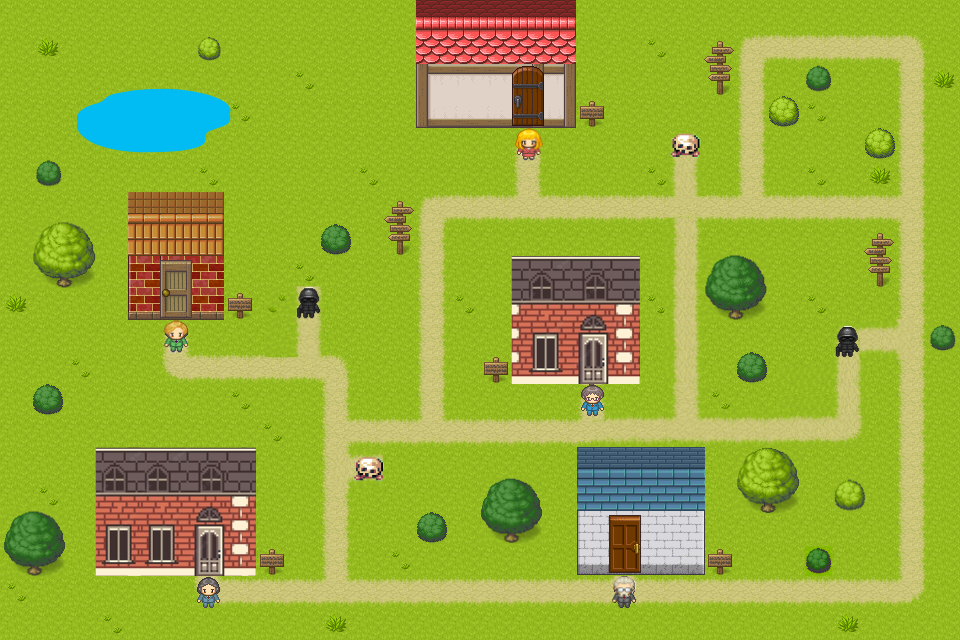
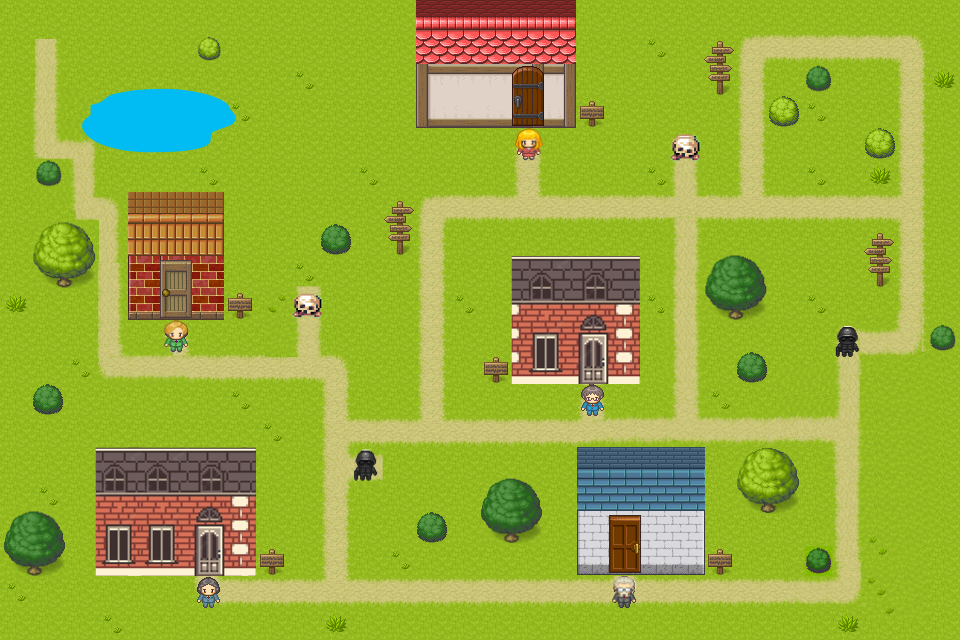
update mecanism-game-Map

diff --git a/codeplay.client/src/resources/GameMap/Map/index.js b/codeplay.client/src/resources/GameMap/Map/index.js
@@ -1,24 +1,24 @@
 import {PRO, CLN} from '../../../config/gameConstants';
 
 export const tiles = [
-    [PRO,PRO,PRO,PRO,PRO,PRO,PRO,PRO,PRO,PRO,PRO,PRO,PRO,CLN,CLN,CLN,CLN,CLN,PRO,PRO,PRO,PRO,PRO,PRO,PRO,PRO,PRO,PRO,PRO,PRO],
-    [PRO,PRO,PRO,PRO,PRO,PRO,CLN,PRO,PRO,PRO,PRO,PRO,PRO,CLN,CLN,CLN,CLN,CLN,PRO,PRO,PRO,PRO,CLN,PRO,PRO,PRO,PRO,PRO,PRO,PRO],
-    [PRO,PRO,PRO,PRO,PRO,PRO,PRO,PRO,PRO,PRO,PRO,PRO,PRO,CLN,CLN,CLN,CLN,CLN,PRO,PRO,PRO,PRO,CLN,PRO,PRO,CLN,PRO,PRO,PRO,PRO],
-    [PRO,PRO,PRO,CLN,CLN,CLN,CLN,PRO,PRO,PRO,PRO,PRO,PRO,CLN,CLN,CLN,CLN,CLN,CLN,PRO,PRO,PRO,PRO,PRO,CLN,PRO,PRO,PRO,PRO,PRO],
-    [PRO,PRO,PRO,PRO,PRO,PRO,PRO,PRO,PRO,PRO,PRO,PRO,PRO,PRO,PRO,PRO,CLN,PRO,PRO,PRO,PRO,CLN,PRO,PRO,PRO,PRO,PRO,CLN,PRO,PRO],
-    [PRO,CLN,PRO,PRO,PRO,PRO,PRO,PRO,PRO,PRO,PRO,PRO,PRO,PRO,PRO,PRO,PRO,PRO,PRO,PRO,PRO,PRO,PRO,PRO,PRO,PRO,PRO,PRO,PRO,PRO],
-    [PRO,PRO,PRO,PRO,CLN,CLN,CLN,PRO,PRO,PRO,PRO,PRO,CLN,PRO,PRO,PRO,PRO,PRO,PRO,PRO,PRO,PRO,PRO,PRO,PRO,PRO,PRO,PRO,PRO,PRO],
-    [PRO,CLN,CLN,PRO,CLN,CLN,CLN,PRO,PRO,PRO,CLN,PRO,CLN,PRO,PRO,PRO,PRO,PRO,PRO,PRO,PRO,PRO,PRO,PRO,PRO,PRO,PRO,CLN,PRO,PRO],
-    [PRO,CLN,CLN,PRO,CLN,CLN,CLN,PRO,PRO,PRO,PRO,PRO,PRO,PRO,PRO,PRO,CLN,CLN,CLN,CLN,PRO,PRO,CLN,CLN,PRO,PRO,PRO,CLN,PRO,PRO],
-    [PRO,PRO,PRO,PRO,CLN,CLN,CLN,CLN,PRO,CLN,PRO,PRO,PRO,PRO,PRO,PRO,CLN,CLN,CLN,CLN,PRO,PRO,CLN,CLN,PRO,PRO,PRO,PRO,PRO,PRO],
-    [PRO,PRO,PRO,PRO,PRO,CLN,PRO,PRO,PRO,PRO,PRO,PRO,PRO,PRO,PRO,PRO,CLN,CLN,CLN,CLN,PRO,PRO,PRO,PRO,PRO,PRO,CLN,PRO,PRO,PRO],
-    [PRO,PRO,PRO,PRO,PRO,PRO,PRO,PRO,PRO,PRO,PRO,PRO,PRO,PRO,PRO,CLN,CLN,CLN,CLN,CLN,PRO,PRO,PRO,CLN,PRO,PRO,PRO,PRO,PRO,PRO],
-    [PRO,CLN,PRO,PRO,PRO,PRO,PRO,PRO,PRO,PRO,PRO,PRO,PRO,PRO,PRO,PRO,PRO,PRO,CLN,PRO,PRO,PRO,PRO,PRO,PRO,PRO,PRO,PRO,PRO,PRO],
-    [PRO,PRO,PRO,PRO,PRO,PRO,PRO,PRO,PRO,PRO,PRO,PRO,PRO,PRO,PRO,PRO,PRO,PRO,PRO,PRO,PRO,PRO,PRO,PRO,PRO,PRO,PRO,PRO,PRO,PRO],
-    [PRO,PRO,PRO,CLN,CLN,CLN,CLN,CLN,PRO,PRO,PRO,CLN,PRO,PRO,PRO,PRO,PRO,PRO,CLN,CLN,CLN,CLN,PRO,CLN,CLN,PRO,PRO,PRO,PRO,PRO],
-    [PRO,PRO,PRO,CLN,CLN,CLN,CLN,CLN,PRO,PRO,PRO,PRO,PRO,PRO,PRO,CLN,CLN,PRO,CLN,CLN,CLN,CLN,PRO,CLN,CLN,PRO,CLN,PRO,PRO,PRO],
-    [CLN,CLN,PRO,CLN,CLN,CLN,CLN,CLN,PRO,PRO,PRO,PRO,PRO,CLN,PRO,CLN,CLN,PRO,CLN,CLN,CLN,CLN,PRO,PRO,PRO,PRO,PRO,PRO,PRO,PRO],
-    [CLN,CLN,PRO,CLN,CLN,CLN,CLN,CLN,CLN,PRO,PRO,PRO,PRO,PRO,PRO,PRO,PRO,PRO,CLN,CLN,CLN,CLN,CLN,PRO,PRO,CLN,PRO,PRO,PRO,PRO],
-    [PRO,PRO,PRO,PRO,PRO,PRO,CLN,PRO,PRO,PRO,PRO,PRO,PRO,PRO,PRO,PRO,PRO,PRO,PRO,CLN,PRO,PRO,PRO,PRO,PRO,PRO,PRO,PRO,PRO,PRO],
-    [PRO,PRO,PRO,PRO,PRO,PRO,PRO,PRO,PRO,PRO,PRO,PRO,PRO,PRO,PRO,PRO,PRO,PRO,PRO,PRO,PRO,PRO,PRO,PRO,PRO,PRO,PRO,PRO,PRO,PRO]
+    [CLN,CLN,CLN,CLN,CLN,CLN,CLN,CLN,CLN,CLN,CLN,CLN,CLN,CLN,CLN,CLN,CLN,CLN,CLN,CLN,CLN,CLN,CLN,CLN,CLN,CLN,CLN,CLN,CLN,CLN],
+    [CLN,PRO,CLN,CLN,CLN,CLN,CLN,CLN,CLN,CLN,CLN,CLN,CLN,CLN,CLN,CLN,CLN,CLN,CLN,CLN,CLN,CLN,CLN,PRO,PRO,PRO,PRO,PRO,PRO,CLN],
+    [CLN,PRO,CLN,CLN,CLN,CLN,CLN,CLN,CLN,CLN,CLN,CLN,CLN,CLN,CLN,CLN,CLN,CLN,CLN,CLN,CLN,CLN,CLN,PRO,CLN,CLN,CLN,CLN,PRO,CLN],
+    [CLN,PRO,CLN,CLN,CLN,CLN,CLN,CLN,CLN,CLN,CLN,CLN,CLN,CLN,CLN,CLN,CLN,CLN,CLN,CLN,CLN,CLN,CLN,PRO,CLN,CLN,CLN,CLN,PRO,CLN],
+    [CLN,PRO,PRO,CLN,CLN,CLN,CLN,CLN,CLN,CLN,CLN,CLN,CLN,CLN,CLN,CLN,CLN,CLN,CLN,CLN,CLN,CLN,CLN,PRO,CLN,CLN,CLN,CLN,PRO,CLN],
+    [CLN,CLN,PRO,CLN,CLN,CLN,CLN,CLN,CLN,CLN,CLN,CLN,CLN,CLN,CLN,CLN,PRO,CLN,CLN,CLN,CLN,PRO,CLN,PRO,CLN,CLN,CLN,CLN,PRO,CLN],
+    [CLN,CLN,PRO,PRO,CLN,CLN,CLN,CLN,CLN,CLN,CLN,CLN,CLN,PRO,PRO,PRO,PRO,PRO,PRO,PRO,PRO,PRO,PRO,PRO,PRO,PRO,PRO,PRO,PRO,CLN],
+    [CLN,CLN,CLN,PRO,CLN,CLN,CLN,CLN,CLN,CLN,CLN,CLN,CLN,PRO,CLN,CLN,CLN,CLN,CLN,CLN,CLN,PRO,CLN,CLN,CLN,CLN,CLN,CLN,PRO,CLN],
+    [CLN,CLN,CLN,PRO,CLN,CLN,CLN,CLN,CLN,CLN,CLN,CLN,CLN,PRO,CLN,CLN,CLN,CLN,CLN,CLN,CLN,PRO,CLN,CLN,CLN,CLN,CLN,CLN,PRO,CLN],
+    [CLN,CLN,CLN,PRO,CLN,CLN,CLN,CLN,CLN,PRO,CLN,CLN,CLN,PRO,CLN,CLN,CLN,CLN,CLN,CLN,CLN,PRO,CLN,CLN,CLN,CLN,CLN,CLN,PRO,CLN],
+    [CLN,CLN,CLN,PRO,CLN,CLN,CLN,CLN,CLN,PRO,CLN,CLN,CLN,PRO,CLN,CLN,CLN,CLN,CLN,CLN,CLN,PRO,CLN,CLN,CLN,CLN,PRO,PRO,PRO,CLN],
+    [CLN,CLN,CLN,PRO,PRO,PRO,PRO,PRO,PRO,PRO,PRO,CLN,CLN,PRO,CLN,CLN,CLN,CLN,CLN,CLN,CLN,PRO,CLN,CLN,CLN,CLN,PRO,CLN,CLN,CLN],
+    [CLN,CLN,CLN,CLN,CLN,CLN,CLN,CLN,CLN,CLN,PRO,CLN,CLN,PRO,CLN,CLN,CLN,CLN,CLN,CLN,CLN,PRO,CLN,CLN,CLN,CLN,PRO,CLN,CLN,CLN],
+    [CLN,CLN,CLN,CLN,CLN,CLN,CLN,CLN,CLN,CLN,PRO,PRO,PRO,PRO,PRO,PRO,PRO,PRO,PRO,PRO,PRO,PRO,PRO,PRO,PRO,PRO,PRO,CLN,CLN,CLN],
+    [CLN,CLN,CLN,CLN,CLN,CLN,CLN,CLN,CLN,CLN,PRO,CLN,CLN,CLN,CLN,CLN,CLN,CLN,CLN,CLN,CLN,CLN,CLN,CLN,CLN,CLN,PRO,CLN,CLN,CLN],
+    [CLN,CLN,CLN,CLN,CLN,CLN,CLN,CLN,CLN,CLN,PRO,CLN,CLN,CLN,CLN,CLN,CLN,CLN,CLN,CLN,CLN,CLN,CLN,CLN,CLN,CLN,PRO,CLN,CLN,CLN],
+    [CLN,CLN,CLN,CLN,CLN,CLN,CLN,CLN,CLN,CLN,PRO,CLN,CLN,CLN,CLN,CLN,CLN,CLN,CLN,CLN,CLN,CLN,CLN,CLN,CLN,CLN,PRO,CLN,CLN,CLN],
+    [CLN,CLN,CLN,CLN,CLN,CLN,CLN,CLN,CLN,CLN,PRO,CLN,CLN,CLN,CLN,CLN,CLN,CLN,CLN,CLN,CLN,CLN,CLN,CLN,CLN,CLN,PRO,CLN,CLN,CLN],
+    [CLN,CLN,CLN,CLN,CLN,CLN,CLN,PRO,PRO,PRO,PRO,PRO,PRO,PRO,PRO,PRO,PRO,PRO,PRO,CLN,PRO,PRO,PRO,PRO,PRO,PRO,PRO,CLN,CLN,CLN],
+    [CLN,CLN,CLN,CLN,CLN,CLN,CLN,CLN,CLN,CLN,CLN,CLN,CLN,CLN,CLN,CLN,CLN,CLN,CLN,CLN,CLN,CLN,CLN,CLN,CLN,CLN,CLN,CLN,CLN,CLN]
 ];

diff --git a/codeplay.client/src/components/InfoProblem/index.js b/codeplay.client/src/components/InfoProblem/index.js
@@ -6,9 +6,8 @@ import { dispatchProblem } from './dispatchProblem'
 import { EAST, QUEST, SOUTH, WEST, NORTH } from '../../config/gameConstants'
 import Swal from 'sweetalert2'
 import gameOver from '../../data/Map/game-over.png'
-import cans from '../../data/Quizz/cans.png'
-import Star from '../../data/Quizz/star.png'
-import Sad from '../../data/Quizz/sad.png'
+import { ModalCans, ModalBook } from './modal'
+import { useNavigate } from 'react-router-dom'
 
 function InfoProblem(props) {
 
@@ -22,6 +21,7 @@ function InfoProblem(props) {
 
   const [currentQuest, setCurrentQuest] = useState(initialState);
   const [questList, setQuestList] = useState([]);
+  const navigate = useNavigate();
 
   useEffect(() => {
     listProblems().then(res => {
@@ -44,7 +44,7 @@ function InfoProblem(props) {
       (props.position[0] === 224 && props.position[1] === 96 && props.facing === WEST)||
       (props.position[0] === 192 && props.position[1] === 128 && props.facing === NORTH)||
       (props.position[0] === 672 && props.position[1] === 160)||
-      (props.position[0] === 352 && props.position[1] === 480)
+      (props.position[0] === 288 && props.position[1] === 320)
     ) {
         Swal.fire({
           imageUrl: gameOver,
@@ -65,53 +65,20 @@ function InfoProblem(props) {
             }, "3000");
           } else if (result.isDenied) {
             Swal.fire('Ok. Até mais!', 'Não desamine, estude e volte depois ;)', 'info');
+            setTimeout(() => {
+              navigate('/stop');
+              window.location.reload();
+            }, "3000");
           }
         });
       }
-      else if((props.position[0] === 288 && props.position[1] === 320)||
-              (props.position[0] === 832 && props.position[1] === 352)) {
-                Swal.fire({
-                  text: 'Quantos latas são necessárias para construir uma pilha de latas no formato acima que tenha a altura de cinco latas?',
-                  imageUrl: cans,
-                  imageWidth: 500,
-                  imageHeight: 200,
-                  imageAlt: 'CANS image',
-                  input: 'text',
-                  inputAttributes: {
-                    autocapitalize: 'off'
-                  },
-                  showCancelButton: false,
-                  confirmButtonText: 'ENVIAR',
-                  confirmButtonColor: '#98be23',
-                  showLoaderOnConfirm: true,
-                  preConfirm: (response) => {
-                    if(response === '15'){
-                      Swal.fire({
-                        imageUrl: Star,
-                        imageWidth: 75,
-                        imageHeight: 75,
-                        color: '#98be23',
-                        title: 'Parabéns! Você acertou.',
-                        confirmButtonColor: '#98be23',
-                        showCancelButton: false,
-                        confirmButtonText: 'Ok!',
-                        })
-                    }else{
-                      Swal.fire({
-                        imageUrl: Sad,
-                        imageWidth: 75,
-                        imageHeight: 75,
-                        color: '#98be23',
-                        title: 'Que pena! Não foi dessa vez.',
-                        confirmButtonColor: '#98be23',
-                        showCancelButton: false,
-                        confirmButtonText: 'Ok!',
-                      })
-                    }
-                  },
-                })
-              }
-  }, [props])
+      else if((props.position[0] === 320 && props.position[1] === 448)) {
+        ModalCans();
+      }
+      else if((props.position[0] === 832 && props.position[1] === 352)) {
+        ModalBook();
+      }
+  }, [props, navigate])
 
   useEffect(() => {
     let currentProblem = null;

diff --git a/codeplay.client/src/components/InfoProblem/modal/index.js b/codeplay.client/src/components/InfoProblem/modal/index.js
@@ -1,0 +1,97 @@
+import Swal from 'sweetalert2'
+import cans from '../../../data/Quizz/cans.png'
+import Star from '../../../data/Quizz/star.png'
+import Sad from '../../../data/Quizz/sad.png'
+import book from '../../../data/Quizz/book.png'
+
+export function ModalCans(){
+    Swal.fire({
+        text: 'Quantos latas são necessárias para construir uma pilha de latas no formato acima que tenha a altura de cinco latas?',
+        imageUrl: cans,
+        imageWidth: 500,
+        imageHeight: 200,
+        imageAlt: 'CANS image',
+        input: 'text',
+        inputAttributes: {
+          autocapitalize: 'off'
+        },
+        showCancelButton: false,
+        confirmButtonText: 'ENVIAR',
+        confirmButtonColor: '#98be23',
+        showLoaderOnConfirm: true,
+        preConfirm: (response) => {
+          if(response === '15'){
+            Swal.fire({
+              imageUrl: Star,
+              imageWidth: 75,
+              imageHeight: 75,
+              color: '#98be23',
+              title: 'Parabéns! Você acertou.',
+              confirmButtonColor: '#98be23',
+              showCancelButton: false,
+              confirmButtonText: 'Ok!',
+              })
+          }else{
+            Swal.fire({
+              imageUrl: Sad,
+              imageWidth: 75,
+              imageHeight: 75,
+              color: '#98be23',
+              title: 'Que pena! Não foi dessa vez. Tente outra vez!',
+              confirmButtonColor: '#98be23',
+              showCancelButton: false,
+              confirmButtonText: 'Ok!',
+            })
+            setTimeout(() => {
+              window.location.reload();
+            }, "5000");
+          }
+        },
+    })
+}
+
+export function ModalBook(){
+    Swal.fire({
+        text: 'Maike com raiva da professora, descontou no livro de Lógica e rasgou as páginas 9, 10, 100, 111, 112. Quantas folhas ele rasgou?',
+        imageUrl: book,
+        imageWidth: 200,
+        imageHeight: 200,
+        imageAlt: 'BOOK image',
+        input: 'text',
+        inputAttributes: {
+          autocapitalize: 'off'
+        },
+        showCancelButton: false,
+        confirmButtonText: 'ENVIAR',
+        confirmButtonColor: '#98be23',
+        showLoaderOnConfirm: true,
+        preConfirm: (response) => {
+          if(response === '4'){
+            Swal.fire({
+              imageUrl: Star,
+              imageWidth: 75,
+              imageHeight: 75,
+              color: '#98be23',
+              title: 'Parabéns! Você acertou.',
+              confirmButtonColor: '#98be23',
+              showCancelButton: false,
+              confirmButtonText: 'Ok!',
+              })
+          }else{
+            Swal.fire({
+              imageUrl: Sad,
+              imageWidth: 75,
+              imageHeight: 75,
+              color: '#98be23',
+              title: 'Que pena! Não foi dessa vez. Tente outra vez!',
+              confirmButtonColor: '#98be23',
+              showCancelButton: false,
+              confirmButtonText: 'Ok!',
+            })
+            setTimeout(() => {
+              window.location.reload();
+            }, "5000");
+          }
+        },
+    })
+}
